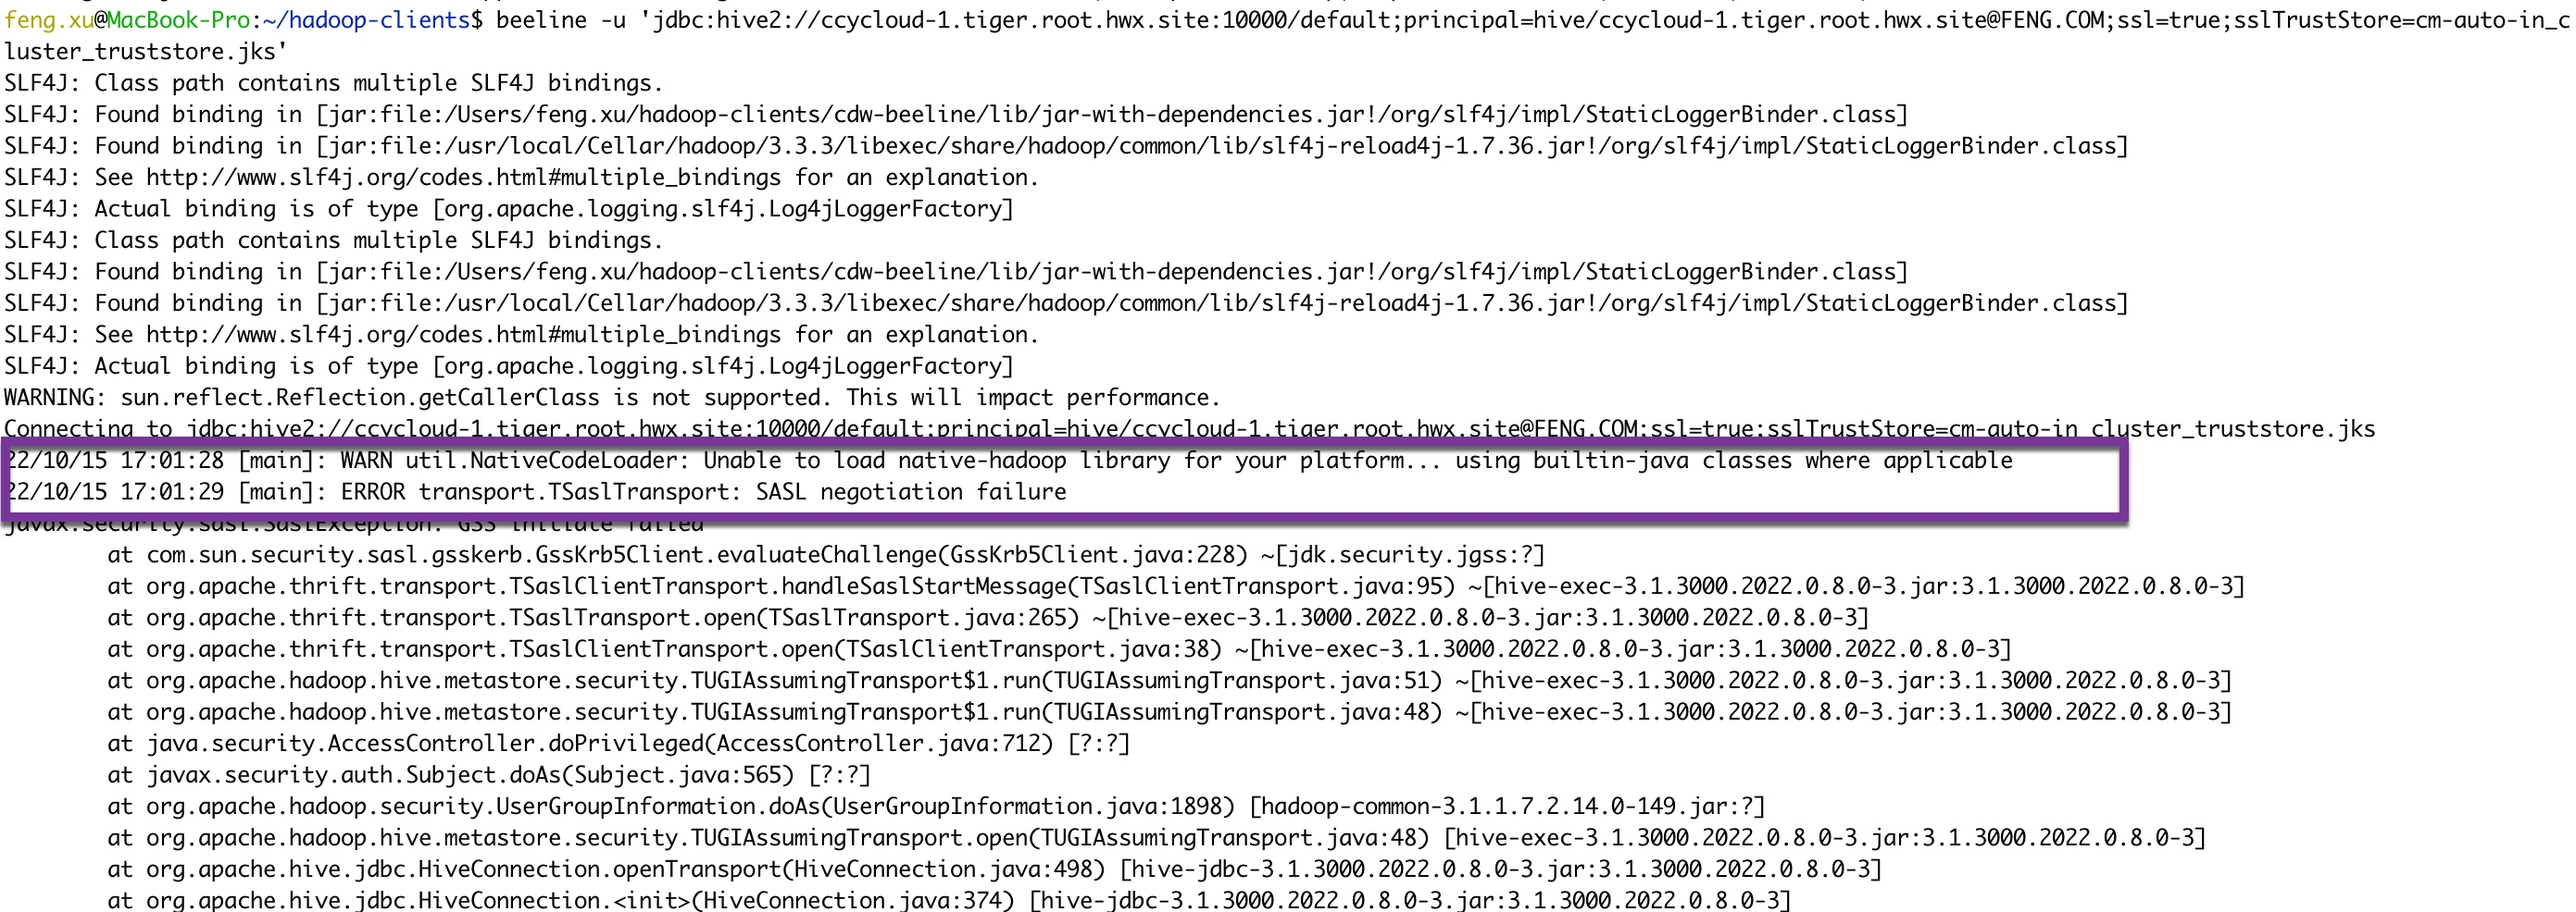
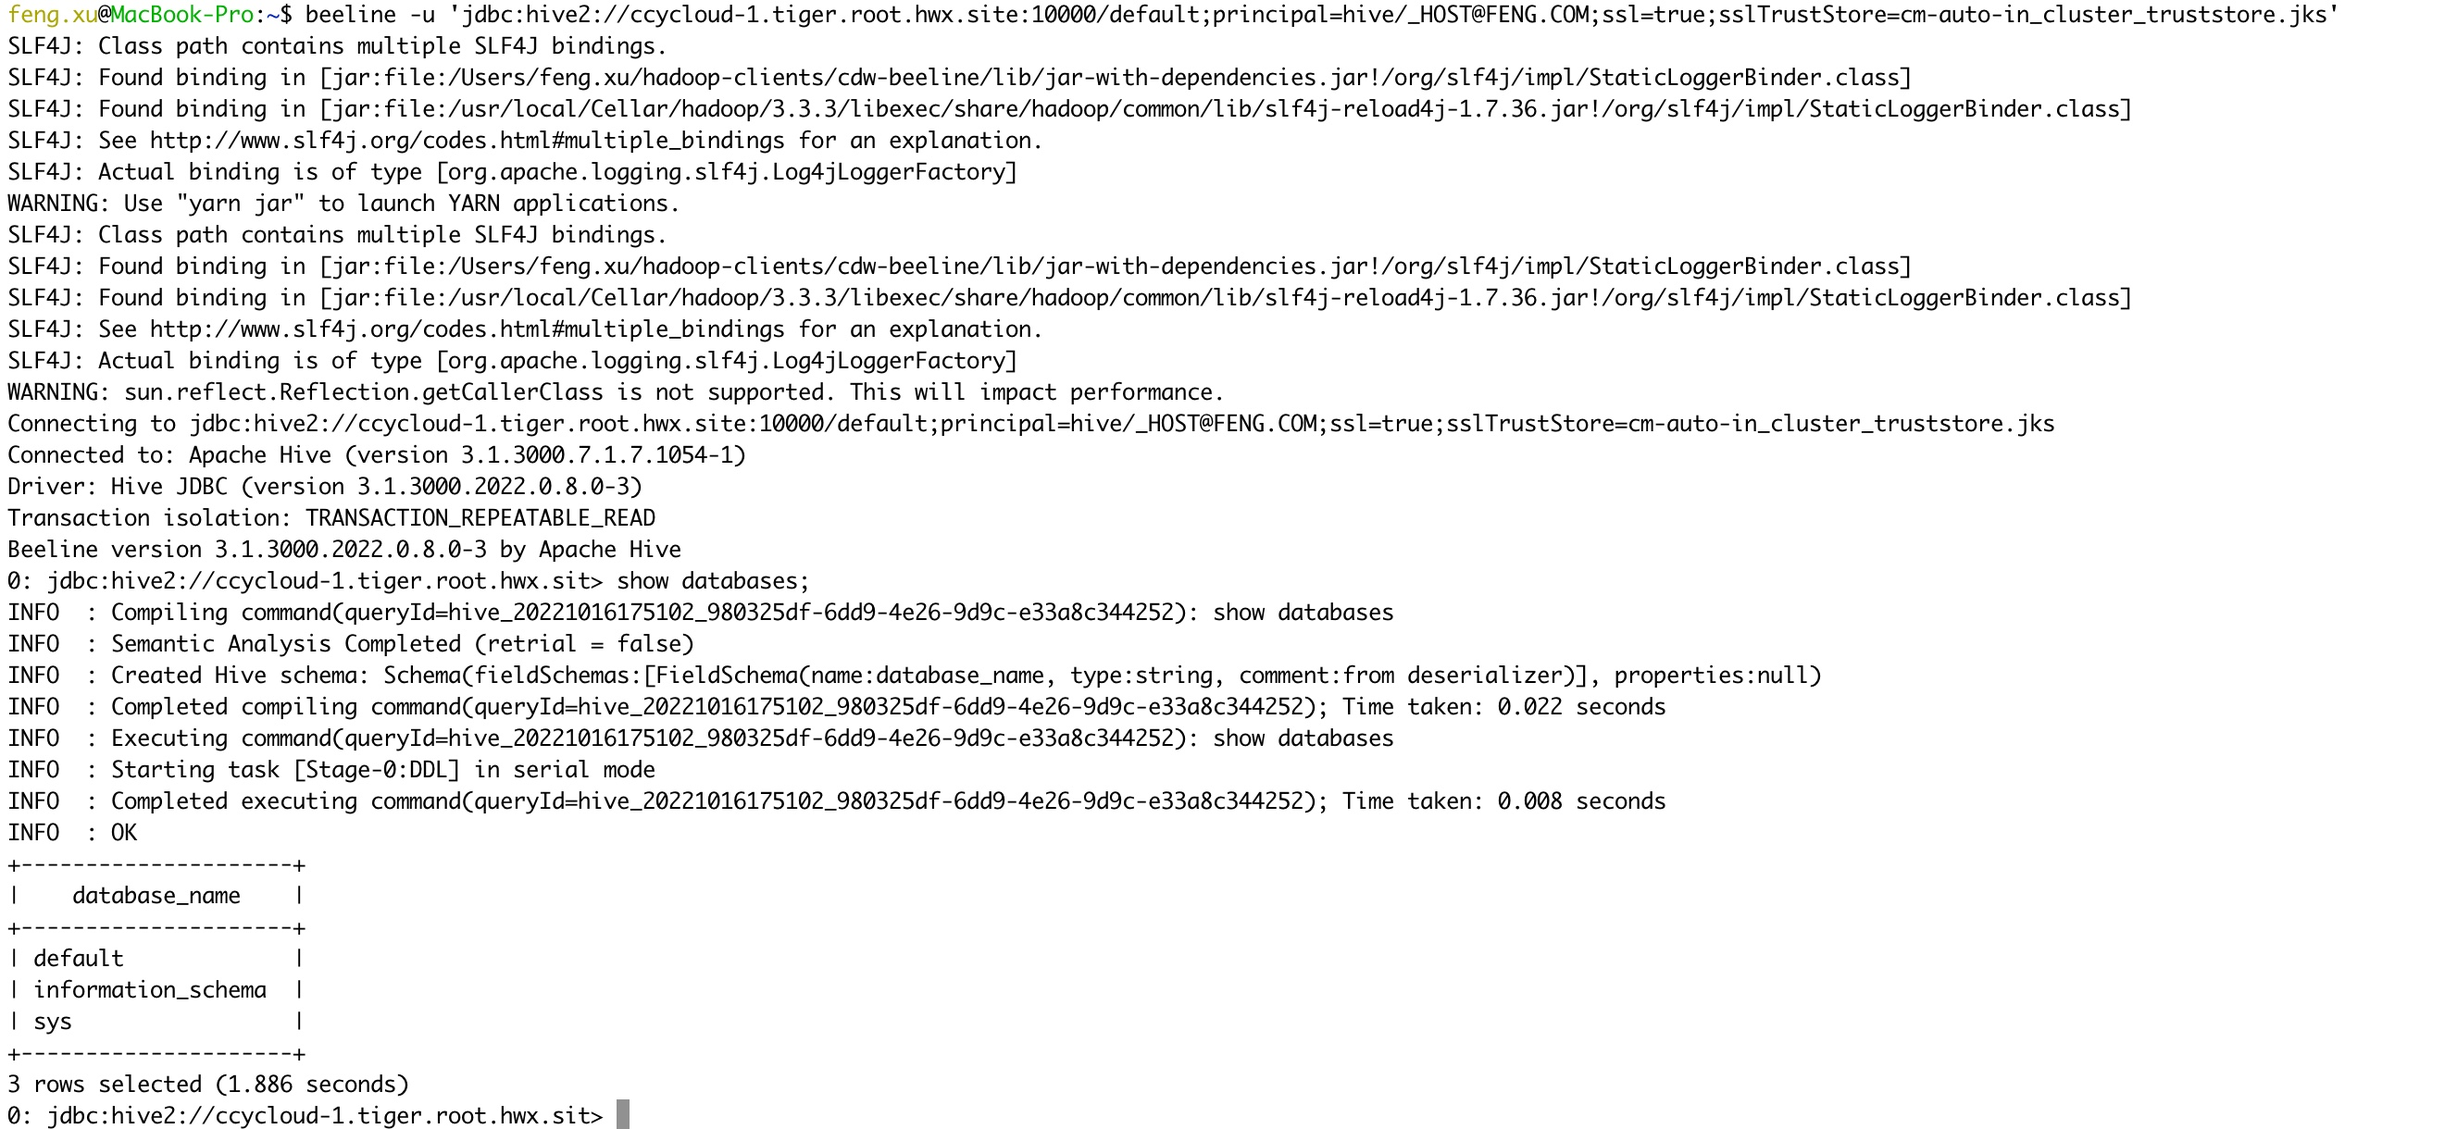
add clients

Changed region(s): [[0.0, 0.0, 0.9887, 1.0]]

diff --git a/docs/ds/hadoopclients.md b/docs/ds/hadoopclients.md
@@ -1,6 +1,6 @@
 ---
 layout: default
-title: Custom Standalone Gateway Node 
+title: Setting up Hadoop Client on MacOS
 nav_order: 4
 parent: Operations
 grand_parent: Data Service
@@ -18,7 +18,7 @@ This topic would allow you to access HDFS, submit yarn/spark jobs, connect to hi
 
 ## 1. Standalone Beeline for CDW
 
-- In order to connect to Hive VW via beeline shell, the first step is to download Beeline CLI software. Click on the 3 dots beside the HUE button, and click on the [Download Beeline CLI](https://cdw-ui.s3.amazonaws.com/hive3/beeline-standalone/apache-hive-beeline-3.1.3000.tar.gz).
+- In order to connect to Hive VW via beeline shell, the first step is to download Beeline CLI software. Click on the 3 dots beside the HUE button, and click on the ["Download Beeline CLI"](https://cdw-ui.s3.amazonaws.com/hive3/beeline-standalone/apache-hive-beeline-3.1.3000.tar.gz).
 
 ![](../../assets/images/ds/gateway001.jpg)
 
@@ -34,24 +34,29 @@ mv apache-hive-beeline-3.1.3000.2022.0.8.0-3 cdw-beeline
 - Beeline requires Java to be available, so install JDK as well.
 ```console
 $ java -version
-java version "1.8.0_144"
-Java(TM) SE Runtime Environment (build 1.8.0_144-b01)
-Java HotSpot(TM) 64-Bit Server VM (build 25.144-b01, mixed mode)
+java version "1.8.0_341"
+Java(TM) SE Runtime Environment (build 1.8.0_341-b10)
+Java HotSpot(TM) 64-Bit Server VM (build 25.341-b10, mixed mode)
+```
+
+- Beelne requires config files from CDP Base cluster(/etc/hive/conf.cloudera.hive_on_tez)
+```bash
+# gen tarball on CDP Base node
+tar cvf hiveconf.tar /etc/hive/conf.cloudera.hive_on_tez
+```
+
+```bash
+# extrace tarball on MAC laptop
+tar xvf hiveconf.tar -C ~/hadoop-clients/cdw-beeline
 ```
 
 - Modify `.bash_profile`
 ```bash
 echo "export PATH=/Users/feng.xu/hadoop-clients/cdw-beeline/bin:$PATH
-export JAVA_HOME=/Library/Java/JavaVirtualMachines/jdk1.8.0_144.jdk//Contents/Home" >> ~/.bash_profile
+export HADOOP_CONF_DIR=/Users/feng.xu/hadoop-clients/cdw-beeline/etc/hive/conf.cloudera.hive_on_tez
+export JAVA_HOME=/Library/Internet\ Plug-Ins/JavaAppletPlugin.plugin/Contents/Home" >> ~/.bash_profile
 source ~/.bash_profile
 ```
-
-- Connect to CDP Base cluster using Kerberos authentication.
-    - beeline commands `beeline -u 'jdbc:hive2://ccycloud-1.tiger.root.hwx.site:10000/default;principal=hive/ccycloud-1.tiger.root.hwx.site@FENG.COM;ssl=true;sslTrustStore=cm-auto-in_cluster_truststore.jks`
-
-![](../../assets/images/ds/gateway003.jpg)
-
-It failed with the following error: `WARN util.NativeCodeLoader: Unable to load native-hadoop library for your platform... using builtin-java classes where applicable`.
 
 - Connect to CDW VW using LDAP authentication.
     - beeline command `beeline -u 'jdbc:hive2://hs2-hive01.apps.ecs-lb.sme-feng.athens.cloudera.com/default;transportMode=http;httpPath=cliservice;ssl=false;retries=3' -n admin -p`
@@ -60,7 +65,13 @@ It failed with the following error: `WARN util.NativeCodeLoader: Unable to load 
 
 This shows that the current Beeline CLI provided by CDW only supports LDAP authentication.
 
-## 2. Standalone Beeline for CDP Base cluster
+- Connect to CDP Base cluster using Kerberos authentication.
+    - beeline commands `beeline -u 'jdbc:hive2://ccycloud-1.tiger.root.hwx.site:10000/default;principal=hive/_HOST@FENG.COM;ssl=true;sslTrustStore=cm-auto-in_cluster_truststore.jks'`
+
+![](../../assets/images/ds/gateway003.jpg)
+
+beeline -u 'jdbc:hive2://ccycloud-1.tiger.root.hwx.site:2181/default;principal=hive/_HOST@FENG.COM;serviceDiscoveryMode=zooKeeper;ssl=true;sslTrustStore=cm-auto-global_truststore.jks;trustStorePassword=yIUI8QOkj51B7rszOjVKZX2G7FPbGmmZcWhedM3aM7z;zooKeeperNamespace=hiveserver2'
+
 
 
 
